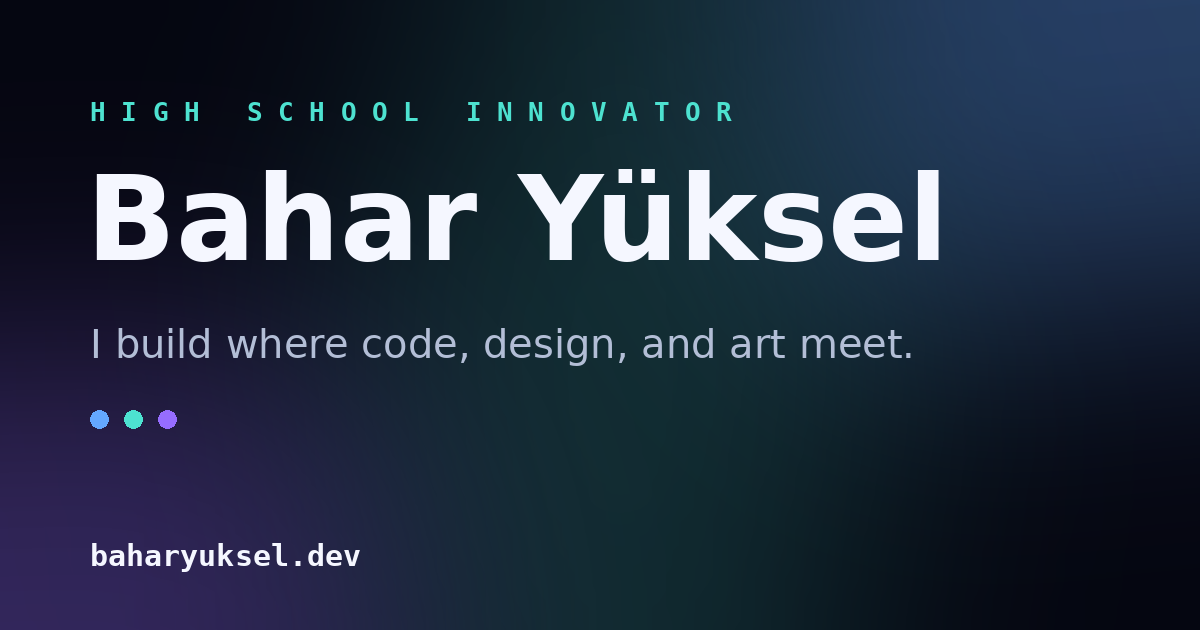
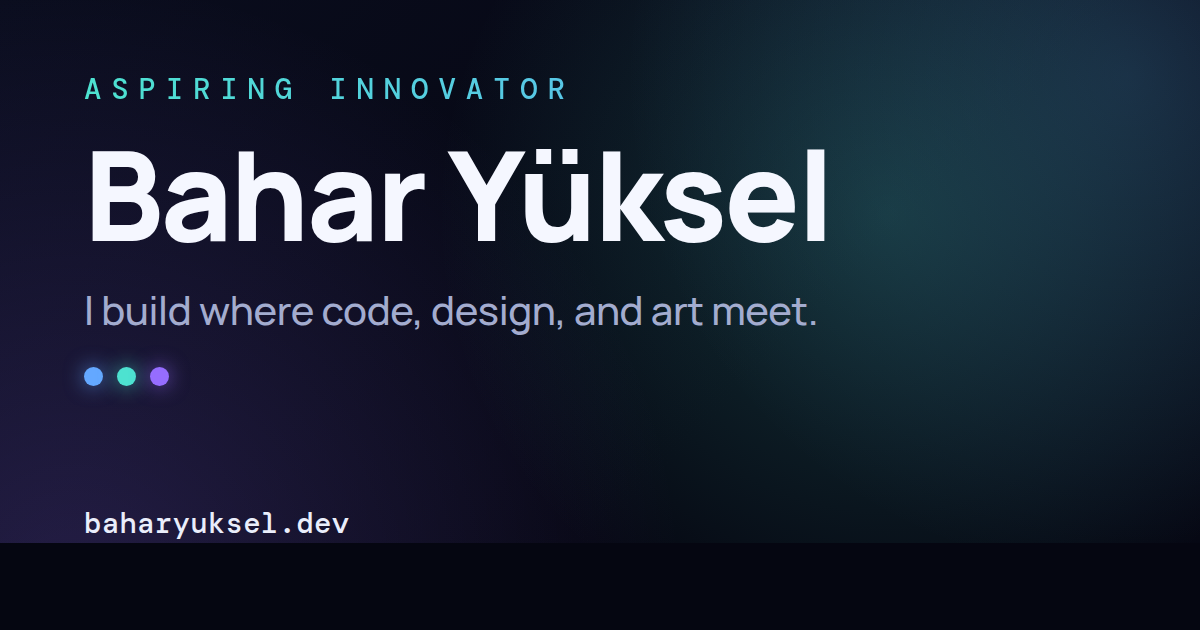
Update bio framing: Aspiring Innovator, drop 'high school', no em dashes
- Change role/title from 'High School Innovator' to 'Aspiring Innovator'
  (hero kicker, page title, JSON-LD, footer)
- Drop 'high school' from meta descriptions and first-person copy across
  content.js, index.html, and about.html
- Replace em-dash separators with middle dots in all page titles and
  social meta across every page
- Regenerate og-card.png with the new 'ASPIRING INNOVATOR' label and bump
  the og:image cache stamp to v=2 so social scrapers refetch

Claude-Session: https://claude.ai/code/session_01RBVGruQ9AxZxknQAtcjyic

diff --git a/work.html b/work.html
@@ -1,1 +1,1 @@
-<!doctype html><html lang="en"><head><meta charset="UTF-8" /><meta name="viewport" content="width=device-width, initial-scale=1.0" /><meta name="theme-color" content="#050611" /><title>Work — Bahar Yüksel</title><link rel="preconnect" href="https://fonts.googleapis.com" /><link rel="preconnect" href="https://fonts.gstatic.com" crossorigin /><link href="https://fonts.googleapis.com/css2?family=Dancing+Script:wght@600;700&family=DM+Mono:wght@400;500&family=Manrope:wght@400;500;600;700;800&display=swap" rel="stylesheet" /><link rel="stylesheet" href="styles.css?v=20260814-26" /><meta name="description" content="Selected projects by Bahar Yüksel, including Casparel and Iter, plus other software, prototypes, and experiments." /><meta name="author" content="Bahar Yüksel" /><link rel="canonical" href="https://baharyuksel.dev/work.html" /><link rel="icon" type="image/png" href="/favicon.png" /><link rel="apple-touch-icon" href="/apple-touch-icon.png" /><meta property="og:type" content="website" /><meta property="og:site_name" content="Bahar Yüksel" /><meta property="og:title" content="Work — Bahar Yüksel" /><meta property="og:description" content="Selected projects by Bahar Yüksel, including Casparel and Iter, plus other software, prototypes, and experiments." /><meta property="og:url" content="https://baharyuksel.dev/work.html" /><meta property="og:image" content="https://baharyuksel.dev/og-card.png?v=1" /><meta property="og:image:width" content="1200" /><meta property="og:image:height" content="630" /><meta property="og:image:alt" content="Bahar Yüksel — I build where code, design, and art meet." /><meta name="twitter:card" content="summary_large_image" /><meta name="twitter:title" content="Work — Bahar Yüksel" /><meta name="twitter:description" content="Selected projects by Bahar Yüksel, including Casparel and Iter, plus other software, prototypes, and experiments." /><meta name="twitter:image" content="https://baharyuksel.dev/og-card.png?v=1" /></head><body data-page="work"><canvas id="motionCanvas" aria-hidden="true"></canvas><main class="shell"><header class="topbar" data-shell></header><section class="page" id="pageRoot"></section></main><dialog id="searchDialog"></dialog><dialog id="featureDialog"></dialog><script src="content.js"></script><script src="app.js?v=20260814-26"></script></body></html>
+<!doctype html><html lang="en"><head><meta charset="UTF-8" /><meta name="viewport" content="width=device-width, initial-scale=1.0" /><meta name="theme-color" content="#050611" /><title>Work · Bahar Yüksel</title><link rel="preconnect" href="https://fonts.googleapis.com" /><link rel="preconnect" href="https://fonts.gstatic.com" crossorigin /><link href="https://fonts.googleapis.com/css2?family=Dancing+Script:wght@600;700&family=DM+Mono:wght@400;500&family=Manrope:wght@400;500;600;700;800&display=swap" rel="stylesheet" /><link rel="stylesheet" href="styles.css?v=20260814-26" /><meta name="description" content="Selected projects by Bahar Yüksel, including Casparel and Iter, plus other software, prototypes, and experiments." /><meta name="author" content="Bahar Yüksel" /><link rel="canonical" href="https://baharyuksel.dev/work.html" /><link rel="icon" type="image/png" href="/favicon.png" /><link rel="apple-touch-icon" href="/apple-touch-icon.png" /><meta property="og:type" content="website" /><meta property="og:site_name" content="Bahar Yüksel" /><meta property="og:title" content="Work · Bahar Yüksel" /><meta property="og:description" content="Selected projects by Bahar Yüksel, including Casparel and Iter, plus other software, prototypes, and experiments." /><meta property="og:url" content="https://baharyuksel.dev/work.html" /><meta property="og:image" content="https://baharyuksel.dev/og-card.png?v=2" /><meta property="og:image:width" content="1200" /><meta property="og:image:height" content="630" /><meta property="og:image:alt" content="Bahar Yüksel · I build where code, design, and art meet." /><meta name="twitter:card" content="summary_large_image" /><meta name="twitter:title" content="Work · Bahar Yüksel" /><meta name="twitter:description" content="Selected projects by Bahar Yüksel, including Casparel and Iter, plus other software, prototypes, and experiments." /><meta name="twitter:image" content="https://baharyuksel.dev/og-card.png?v=2" /></head><body data-page="work"><canvas id="motionCanvas" aria-hidden="true"></canvas><main class="shell"><header class="topbar" data-shell></header><section class="page" id="pageRoot"></section></main><dialog id="searchDialog"></dialog><dialog id="featureDialog"></dialog><script src="content.js"></script><script src="app.js?v=20260814-26"></script></body></html>

diff --git a/research.html b/research.html
@@ -1,1 +1,1 @@
-<!doctype html><html lang="en"><head><meta charset="UTF-8" /><meta name="viewport" content="width=device-width, initial-scale=1.0" /><meta name="theme-color" content="#050611" /><title>Research — Bahar Yüksel</title><link rel="preconnect" href="https://fonts.googleapis.com" /><link rel="preconnect" href="https://fonts.gstatic.com" crossorigin /><link href="https://fonts.googleapis.com/css2?family=Dancing+Script:wght@600;700&family=DM+Mono:wght@400;500&family=Manrope:wght@400;500;600;700;800&display=swap" rel="stylesheet" /><link rel="stylesheet" href="styles.css?v=20260814-26" /><meta name="description" content="Open questions Bahar Yüksel is exploring across AI, education, product, and design." /><meta name="author" content="Bahar Yüksel" /><link rel="canonical" href="https://baharyuksel.dev/research.html" /><link rel="icon" type="image/png" href="/favicon.png" /><link rel="apple-touch-icon" href="/apple-touch-icon.png" /><meta property="og:type" content="website" /><meta property="og:site_name" content="Bahar Yüksel" /><meta property="og:title" content="Research — Bahar Yüksel" /><meta property="og:description" content="Open questions Bahar Yüksel is exploring across AI, education, product, and design." /><meta property="og:url" content="https://baharyuksel.dev/research.html" /><meta property="og:image" content="https://baharyuksel.dev/og-card.png?v=1" /><meta property="og:image:width" content="1200" /><meta property="og:image:height" content="630" /><meta property="og:image:alt" content="Bahar Yüksel — I build where code, design, and art meet." /><meta name="twitter:card" content="summary_large_image" /><meta name="twitter:title" content="Research — Bahar Yüksel" /><meta name="twitter:description" content="Open questions Bahar Yüksel is exploring across AI, education, product, and design." /><meta name="twitter:image" content="https://baharyuksel.dev/og-card.png?v=1" /></head><body data-page="research"><canvas id="motionCanvas" aria-hidden="true"></canvas><main class="shell"><header class="topbar" data-shell></header><section class="page" id="pageRoot"></section></main><dialog id="searchDialog"></dialog><dialog id="featureDialog"></dialog><script src="content.js"></script><script src="app.js?v=20260814-26"></script></body></html>
+<!doctype html><html lang="en"><head><meta charset="UTF-8" /><meta name="viewport" content="width=device-width, initial-scale=1.0" /><meta name="theme-color" content="#050611" /><title>Research · Bahar Yüksel</title><link rel="preconnect" href="https://fonts.googleapis.com" /><link rel="preconnect" href="https://fonts.gstatic.com" crossorigin /><link href="https://fonts.googleapis.com/css2?family=Dancing+Script:wght@600;700&family=DM+Mono:wght@400;500&family=Manrope:wght@400;500;600;700;800&display=swap" rel="stylesheet" /><link rel="stylesheet" href="styles.css?v=20260814-26" /><meta name="description" content="Open questions Bahar Yüksel is exploring across AI, education, product, and design." /><meta name="author" content="Bahar Yüksel" /><link rel="canonical" href="https://baharyuksel.dev/research.html" /><link rel="icon" type="image/png" href="/favicon.png" /><link rel="apple-touch-icon" href="/apple-touch-icon.png" /><meta property="og:type" content="website" /><meta property="og:site_name" content="Bahar Yüksel" /><meta property="og:title" content="Research · Bahar Yüksel" /><meta property="og:description" content="Open questions Bahar Yüksel is exploring across AI, education, product, and design." /><meta property="og:url" content="https://baharyuksel.dev/research.html" /><meta property="og:image" content="https://baharyuksel.dev/og-card.png?v=2" /><meta property="og:image:width" content="1200" /><meta property="og:image:height" content="630" /><meta property="og:image:alt" content="Bahar Yüksel · I build where code, design, and art meet." /><meta name="twitter:card" content="summary_large_image" /><meta name="twitter:title" content="Research · Bahar Yüksel" /><meta name="twitter:description" content="Open questions Bahar Yüksel is exploring across AI, education, product, and design." /><meta name="twitter:image" content="https://baharyuksel.dev/og-card.png?v=2" /></head><body data-page="research"><canvas id="motionCanvas" aria-hidden="true"></canvas><main class="shell"><header class="topbar" data-shell></header><section class="page" id="pageRoot"></section></main><dialog id="searchDialog"></dialog><dialog id="featureDialog"></dialog><script src="content.js"></script><script src="app.js?v=20260814-26"></script></body></html>

diff --git a/writing.html b/writing.html
@@ -1,1 +1,1 @@
-<!doctype html><html lang="en"><head><meta charset="UTF-8" /><meta name="viewport" content="width=device-width, initial-scale=1.0" /><meta name="theme-color" content="#050611" /><title>Blog — Bahar Yüksel</title><link rel="preconnect" href="https://fonts.googleapis.com" /><link rel="preconnect" href="https://fonts.gstatic.com" crossorigin /><link href="https://fonts.googleapis.com/css2?family=Dancing+Script:wght@600;700&family=DM+Mono:wght@400;500&family=Manrope:wght@400;500;600;700;800&display=swap" rel="stylesheet" /><link rel="stylesheet" href="styles.css?v=20260814-26" /><meta name="description" content="An innovator's journal: Bahar Yüksel on building, learning, AI, and design." /><meta name="author" content="Bahar Yüksel" /><link rel="canonical" href="https://baharyuksel.dev/writing.html" /><link rel="icon" type="image/png" href="/favicon.png" /><link rel="apple-touch-icon" href="/apple-touch-icon.png" /><meta property="og:type" content="website" /><meta property="og:site_name" content="Bahar Yüksel" /><meta property="og:title" content="An innovator's journal — Bahar Yüksel" /><meta property="og:description" content="An innovator's journal: Bahar Yüksel on building, learning, AI, and design." /><meta property="og:url" content="https://baharyuksel.dev/writing.html" /><meta property="og:image" content="https://baharyuksel.dev/og-card.png?v=1" /><meta property="og:image:width" content="1200" /><meta property="og:image:height" content="630" /><meta property="og:image:alt" content="Bahar Yüksel — I build where code, design, and art meet." /><meta name="twitter:card" content="summary_large_image" /><meta name="twitter:title" content="An innovator's journal — Bahar Yüksel" /><meta name="twitter:description" content="An innovator's journal: Bahar Yüksel on building, learning, AI, and design." /><meta name="twitter:image" content="https://baharyuksel.dev/og-card.png?v=1" /></head><body data-page="writing"><canvas id="motionCanvas" aria-hidden="true"></canvas><main class="shell"><header class="topbar" data-shell></header><section class="page" id="pageRoot"></section></main><dialog id="searchDialog"></dialog><dialog id="featureDialog"></dialog><script src="content.js"></script><script src="app.js?v=20260814-26"></script></body></html>
+<!doctype html><html lang="en"><head><meta charset="UTF-8" /><meta name="viewport" content="width=device-width, initial-scale=1.0" /><meta name="theme-color" content="#050611" /><title>Blog · Bahar Yüksel</title><link rel="preconnect" href="https://fonts.googleapis.com" /><link rel="preconnect" href="https://fonts.gstatic.com" crossorigin /><link href="https://fonts.googleapis.com/css2?family=Dancing+Script:wght@600;700&family=DM+Mono:wght@400;500&family=Manrope:wght@400;500;600;700;800&display=swap" rel="stylesheet" /><link rel="stylesheet" href="styles.css?v=20260814-26" /><meta name="description" content="An innovator's journal: Bahar Yüksel on building, learning, AI, and design." /><meta name="author" content="Bahar Yüksel" /><link rel="canonical" href="https://baharyuksel.dev/writing.html" /><link rel="icon" type="image/png" href="/favicon.png" /><link rel="apple-touch-icon" href="/apple-touch-icon.png" /><meta property="og:type" content="website" /><meta property="og:site_name" content="Bahar Yüksel" /><meta property="og:title" content="An innovator's journal · Bahar Yüksel" /><meta property="og:description" content="An innovator's journal: Bahar Yüksel on building, learning, AI, and design." /><meta property="og:url" content="https://baharyuksel.dev/writing.html" /><meta property="og:image" content="https://baharyuksel.dev/og-card.png?v=2" /><meta property="og:image:width" content="1200" /><meta property="og:image:height" content="630" /><meta property="og:image:alt" content="Bahar Yüksel · I build where code, design, and art meet." /><meta name="twitter:card" content="summary_large_image" /><meta name="twitter:title" content="An innovator's journal · Bahar Yüksel" /><meta name="twitter:description" content="An innovator's journal: Bahar Yüksel on building, learning, AI, and design." /><meta name="twitter:image" content="https://baharyuksel.dev/og-card.png?v=2" /></head><body data-page="writing"><canvas id="motionCanvas" aria-hidden="true"></canvas><main class="shell"><header class="topbar" data-shell></header><section class="page" id="pageRoot"></section></main><dialog id="searchDialog"></dialog><dialog id="featureDialog"></dialog><script src="content.js"></script><script src="app.js?v=20260814-26"></script></body></html>

diff --git a/about.html b/about.html
@@ -1,1 +1,1 @@
-<!doctype html><html lang="en"><head><meta charset="UTF-8" /><meta name="viewport" content="width=device-width, initial-scale=1.0" /><meta name="theme-color" content="#050611" /><title>About — Bahar Yüksel</title><link rel="preconnect" href="https://fonts.googleapis.com" /><link rel="preconnect" href="https://fonts.gstatic.com" crossorigin /><link href="https://fonts.googleapis.com/css2?family=Dancing+Script:wght@600;700&family=DM+Mono:wght@400;500&family=Manrope:wght@400;500;600;700;800&display=swap" rel="stylesheet" /><link rel="stylesheet" href="styles.css?v=20260814-26" /><meta name="description" content="About Bahar Yüksel, a high school student in Istanbul building across code, design, and art." /><meta name="author" content="Bahar Yüksel" /><link rel="canonical" href="https://baharyuksel.dev/about.html" /><link rel="icon" type="image/png" href="/favicon.png" /><link rel="apple-touch-icon" href="/apple-touch-icon.png" /><meta property="og:type" content="website" /><meta property="og:site_name" content="Bahar Yüksel" /><meta property="og:title" content="About Bahar Yüksel" /><meta property="og:description" content="About Bahar Yüksel, a high school student in Istanbul building across code, design, and art." /><meta property="og:url" content="https://baharyuksel.dev/about.html" /><meta property="og:image" content="https://baharyuksel.dev/og-card.png?v=1" /><meta property="og:image:width" content="1200" /><meta property="og:image:height" content="630" /><meta property="og:image:alt" content="Bahar Yüksel — I build where code, design, and art meet." /><meta name="twitter:card" content="summary_large_image" /><meta name="twitter:title" content="About Bahar Yüksel" /><meta name="twitter:description" content="About Bahar Yüksel, a high school student in Istanbul building across code, design, and art." /><meta name="twitter:image" content="https://baharyuksel.dev/og-card.png?v=1" /></head><body data-page="about"><canvas id="motionCanvas" aria-hidden="true"></canvas><main class="shell"><header class="topbar" data-shell></header><section class="page" id="pageRoot"></section></main><dialog id="searchDialog"></dialog><dialog id="featureDialog"></dialog><script src="content.js"></script><script src="app.js?v=20260814-26"></script></body></html>
+<!doctype html><html lang="en"><head><meta charset="UTF-8" /><meta name="viewport" content="width=device-width, initial-scale=1.0" /><meta name="theme-color" content="#050611" /><title>About · Bahar Yüksel</title><link rel="preconnect" href="https://fonts.googleapis.com" /><link rel="preconnect" href="https://fonts.gstatic.com" crossorigin /><link href="https://fonts.googleapis.com/css2?family=Dancing+Script:wght@600;700&family=DM+Mono:wght@400;500&family=Manrope:wght@400;500;600;700;800&display=swap" rel="stylesheet" /><link rel="stylesheet" href="styles.css?v=20260814-26" /><meta name="description" content="About Bahar Yüksel, working across code, design, and art in Istanbul." /><meta name="author" content="Bahar Yüksel" /><link rel="canonical" href="https://baharyuksel.dev/about.html" /><link rel="icon" type="image/png" href="/favicon.png" /><link rel="apple-touch-icon" href="/apple-touch-icon.png" /><meta property="og:type" content="website" /><meta property="og:site_name" content="Bahar Yüksel" /><meta property="og:title" content="About Bahar Yüksel" /><meta property="og:description" content="About Bahar Yüksel, working across code, design, and art in Istanbul." /><meta property="og:url" content="https://baharyuksel.dev/about.html" /><meta property="og:image" content="https://baharyuksel.dev/og-card.png?v=2" /><meta property="og:image:width" content="1200" /><meta property="og:image:height" content="630" /><meta property="og:image:alt" content="Bahar Yüksel · I build where code, design, and art meet." /><meta name="twitter:card" content="summary_large_image" /><meta name="twitter:title" content="About Bahar Yüksel" /><meta name="twitter:description" content="About Bahar Yüksel, working across code, design, and art in Istanbul." /><meta name="twitter:image" content="https://baharyuksel.dev/og-card.png?v=2" /></head><body data-page="about"><canvas id="motionCanvas" aria-hidden="true"></canvas><main class="shell"><header class="topbar" data-shell></header><section class="page" id="pageRoot"></section></main><dialog id="searchDialog"></dialog><dialog id="featureDialog"></dialog><script src="content.js"></script><script src="app.js?v=20260814-26"></script></body></html>

diff --git a/art.html b/art.html
@@ -1,1 +1,1 @@
-<!doctype html><html lang="en"><head><meta charset="UTF-8" /><meta name="viewport" content="width=device-width, initial-scale=1.0" /><meta name="theme-color" content="#050611" /><title>Art — Bahar Yüksel</title><link rel="preconnect" href="https://fonts.googleapis.com" /><link rel="preconnect" href="https://fonts.gstatic.com" crossorigin /><link href="https://fonts.googleapis.com/css2?family=Dancing+Script:wght@600;700&family=DM+Mono:wght@400;500&family=Manrope:wght@400;500;600;700;800&display=swap" rel="stylesheet" /><link rel="stylesheet" href="styles.css?v=20260814-26" /><meta name="description" content="Illustrations, comics, logos, and creative-coding studies by Bahar Yüksel." /><meta name="author" content="Bahar Yüksel" /><link rel="canonical" href="https://baharyuksel.dev/art.html" /><link rel="icon" type="image/png" href="/favicon.png" /><link rel="apple-touch-icon" href="/apple-touch-icon.png" /><meta property="og:type" content="website" /><meta property="og:site_name" content="Bahar Yüksel" /><meta property="og:title" content="Art — Bahar Yüksel" /><meta property="og:description" content="Illustrations, comics, logos, and creative-coding studies by Bahar Yüksel." /><meta property="og:url" content="https://baharyuksel.dev/art.html" /><meta property="og:image" content="https://baharyuksel.dev/og-card.png?v=1" /><meta property="og:image:width" content="1200" /><meta property="og:image:height" content="630" /><meta property="og:image:alt" content="Bahar Yüksel — I build where code, design, and art meet." /><meta name="twitter:card" content="summary_large_image" /><meta name="twitter:title" content="Art — Bahar Yüksel" /><meta name="twitter:description" content="Illustrations, comics, logos, and creative-coding studies by Bahar Yüksel." /><meta name="twitter:image" content="https://baharyuksel.dev/og-card.png?v=1" /></head><body data-page="art"><canvas id="motionCanvas" aria-hidden="true"></canvas><main class="shell"><header class="topbar" data-shell></header><section class="page" id="pageRoot"></section></main><dialog id="searchDialog"></dialog><dialog id="featureDialog"></dialog><script src="content.js"></script><script src="app.js?v=20260814-26"></script></body></html>
+<!doctype html><html lang="en"><head><meta charset="UTF-8" /><meta name="viewport" content="width=device-width, initial-scale=1.0" /><meta name="theme-color" content="#050611" /><title>Art · Bahar Yüksel</title><link rel="preconnect" href="https://fonts.googleapis.com" /><link rel="preconnect" href="https://fonts.gstatic.com" crossorigin /><link href="https://fonts.googleapis.com/css2?family=Dancing+Script:wght@600;700&family=DM+Mono:wght@400;500&family=Manrope:wght@400;500;600;700;800&display=swap" rel="stylesheet" /><link rel="stylesheet" href="styles.css?v=20260814-26" /><meta name="description" content="Illustrations, comics, logos, and creative-coding studies by Bahar Yüksel." /><meta name="author" content="Bahar Yüksel" /><link rel="canonical" href="https://baharyuksel.dev/art.html" /><link rel="icon" type="image/png" href="/favicon.png" /><link rel="apple-touch-icon" href="/apple-touch-icon.png" /><meta property="og:type" content="website" /><meta property="og:site_name" content="Bahar Yüksel" /><meta property="og:title" content="Art · Bahar Yüksel" /><meta property="og:description" content="Illustrations, comics, logos, and creative-coding studies by Bahar Yüksel." /><meta property="og:url" content="https://baharyuksel.dev/art.html" /><meta property="og:image" content="https://baharyuksel.dev/og-card.png?v=2" /><meta property="og:image:width" content="1200" /><meta property="og:image:height" content="630" /><meta property="og:image:alt" content="Bahar Yüksel · I build where code, design, and art meet." /><meta name="twitter:card" content="summary_large_image" /><meta name="twitter:title" content="Art · Bahar Yüksel" /><meta name="twitter:description" content="Illustrations, comics, logos, and creative-coding studies by Bahar Yüksel." /><meta name="twitter:image" content="https://baharyuksel.dev/og-card.png?v=2" /></head><body data-page="art"><canvas id="motionCanvas" aria-hidden="true"></canvas><main class="shell"><header class="topbar" data-shell></header><section class="page" id="pageRoot"></section></main><dialog id="searchDialog"></dialog><dialog id="featureDialog"></dialog><script src="content.js"></script><script src="app.js?v=20260814-26"></script></body></html>

diff --git a/index.html b/index.html
@@ -4,7 +4,7 @@
     <meta charset="UTF-8" />
     <meta name="viewport" content="width=device-width, initial-scale=1.0" />
     <meta name="theme-color" content="#eef1f8" />
-    <title>Bahar Yüksel — High School Innovator</title>
+    <title>Bahar Yüksel · Aspiring Innovator</title>
     <link rel="preconnect" href="https://fonts.googleapis.com" />
     <link rel="preconnect" href="https://fonts.gstatic.com" crossorigin />
     <link href="https://fonts.googleapis.com/css2?family=Dancing+Script:wght@600;700&family=DM+Mono:wght@400;500&family=Manrope:wght@400;500;600;700;800&display=swap" rel="stylesheet" />
@@ -17,15 +17,15 @@
         "name": "Bahar Yüksel",
         "alternateName": "Bahar Yuksel",
         "url": "https://baharyuksel.dev",
-        "jobTitle": "High School Innovator",
-        "description": "High school builder in Istanbul working across code, design, and art, mostly tools that help people learn.",
+        "jobTitle": "Aspiring Innovator",
+        "description": "Builder in Istanbul working across code, design, and art, mostly tools that help people learn.",
         "sameAs": [
           "https://github.com/springdev28",
           "https://www.linkedin.com/in/baharyuksel0403"
         ]
       }
     </script>
-  <meta name="description" content="High school builder in Istanbul working across code, design, and art. Software, interfaces, and visual work, mostly tools that help people learn." /><meta name="author" content="Bahar Yüksel" /><link rel="canonical" href="https://baharyuksel.dev/" /><link rel="icon" type="image/png" href="/favicon.png" /><link rel="apple-touch-icon" href="/apple-touch-icon.png" /><meta property="og:type" content="website" /><meta property="og:site_name" content="Bahar Yüksel" /><meta property="og:title" content="Bahar Yüksel — code, design &amp; art" /><meta property="og:description" content="High school builder in Istanbul working across code, design, and art. Software, interfaces, and visual work, mostly tools that help people learn." /><meta property="og:url" content="https://baharyuksel.dev/" /><meta property="og:image" content="https://baharyuksel.dev/og-card.png?v=1" /><meta property="og:image:width" content="1200" /><meta property="og:image:height" content="630" /><meta property="og:image:alt" content="Bahar Yüksel — I build where code, design, and art meet." /><meta name="twitter:card" content="summary_large_image" /><meta name="twitter:title" content="Bahar Yüksel — code, design &amp; art" /><meta name="twitter:description" content="High school builder in Istanbul working across code, design, and art. Software, interfaces, and visual work, mostly tools that help people learn." /><meta name="twitter:image" content="https://baharyuksel.dev/og-card.png?v=1" /></head>
+  <meta name="description" content="Builder in Istanbul working across code, design, and art. Software, interfaces, and visual work, mostly tools that help people learn." /><meta name="author" content="Bahar Yüksel" /><link rel="canonical" href="https://baharyuksel.dev/" /><link rel="icon" type="image/png" href="/favicon.png" /><link rel="apple-touch-icon" href="/apple-touch-icon.png" /><meta property="og:type" content="website" /><meta property="og:site_name" content="Bahar Yüksel" /><meta property="og:title" content="Bahar Yüksel · code, design &amp; art" /><meta property="og:description" content="Builder in Istanbul working across code, design, and art. Software, interfaces, and visual work, mostly tools that help people learn." /><meta property="og:url" content="https://baharyuksel.dev/" /><meta property="og:image" content="https://baharyuksel.dev/og-card.png?v=2" /><meta property="og:image:width" content="1200" /><meta property="og:image:height" content="630" /><meta property="og:image:alt" content="Bahar Yüksel · I build where code, design, and art meet." /><meta name="twitter:card" content="summary_large_image" /><meta name="twitter:title" content="Bahar Yüksel · code, design &amp; art" /><meta name="twitter:description" content="Builder in Istanbul working across code, design, and art. Software, interfaces, and visual work, mostly tools that help people learn." /><meta name="twitter:image" content="https://baharyuksel.dev/og-card.png?v=2" /></head>
   <body data-page="home">
     <canvas id="motionCanvas" aria-hidden="true"></canvas>
     <main class="shell">

diff --git a/contact.html b/contact.html
@@ -1,1 +1,1 @@
-<!doctype html><html lang="en"><head><meta charset="UTF-8" /><meta name="viewport" content="width=device-width, initial-scale=1.0" /><meta name="theme-color" content="#050611" /><title>Contact — Bahar Yüksel</title><link rel="preconnect" href="https://fonts.googleapis.com" /><link rel="preconnect" href="https://fonts.gstatic.com" crossorigin /><link href="https://fonts.googleapis.com/css2?family=Dancing+Script:wght@600;700&family=DM+Mono:wght@400;500&family=Manrope:wght@400;500;600;700;800&display=swap" rel="stylesheet" /><link rel="stylesheet" href="styles.css?v=20260814-26" /><meta name="description" content="Get in touch with Bahar Yüksel." /><meta name="author" content="Bahar Yüksel" /><link rel="canonical" href="https://baharyuksel.dev/contact.html" /><link rel="icon" type="image/png" href="/favicon.png" /><link rel="apple-touch-icon" href="/apple-touch-icon.png" /><meta property="og:type" content="website" /><meta property="og:site_name" content="Bahar Yüksel" /><meta property="og:title" content="Contact — Bahar Yüksel" /><meta property="og:description" content="Get in touch with Bahar Yüksel." /><meta property="og:url" content="https://baharyuksel.dev/contact.html" /><meta property="og:image" content="https://baharyuksel.dev/og-card.png?v=1" /><meta property="og:image:width" content="1200" /><meta property="og:image:height" content="630" /><meta property="og:image:alt" content="Bahar Yüksel — I build where code, design, and art meet." /><meta name="twitter:card" content="summary_large_image" /><meta name="twitter:title" content="Contact — Bahar Yüksel" /><meta name="twitter:description" content="Get in touch with Bahar Yüksel." /><meta name="twitter:image" content="https://baharyuksel.dev/og-card.png?v=1" /></head><body data-page="contact"><canvas id="motionCanvas" aria-hidden="true"></canvas><main class="shell"><header class="topbar" data-shell></header><section class="page" id="pageRoot"></section></main><dialog id="searchDialog"></dialog><dialog id="featureDialog"></dialog><script src="content.js"></script><script src="app.js?v=20260814-26"></script></body></html>
+<!doctype html><html lang="en"><head><meta charset="UTF-8" /><meta name="viewport" content="width=device-width, initial-scale=1.0" /><meta name="theme-color" content="#050611" /><title>Contact · Bahar Yüksel</title><link rel="preconnect" href="https://fonts.googleapis.com" /><link rel="preconnect" href="https://fonts.gstatic.com" crossorigin /><link href="https://fonts.googleapis.com/css2?family=Dancing+Script:wght@600;700&family=DM+Mono:wght@400;500&family=Manrope:wght@400;500;600;700;800&display=swap" rel="stylesheet" /><link rel="stylesheet" href="styles.css?v=20260814-26" /><meta name="description" content="Get in touch with Bahar Yüksel." /><meta name="author" content="Bahar Yüksel" /><link rel="canonical" href="https://baharyuksel.dev/contact.html" /><link rel="icon" type="image/png" href="/favicon.png" /><link rel="apple-touch-icon" href="/apple-touch-icon.png" /><meta property="og:type" content="website" /><meta property="og:site_name" content="Bahar Yüksel" /><meta property="og:title" content="Contact · Bahar Yüksel" /><meta property="og:description" content="Get in touch with Bahar Yüksel." /><meta property="og:url" content="https://baharyuksel.dev/contact.html" /><meta property="og:image" content="https://baharyuksel.dev/og-card.png?v=2" /><meta property="og:image:width" content="1200" /><meta property="og:image:height" content="630" /><meta property="og:image:alt" content="Bahar Yüksel · I build where code, design, and art meet." /><meta name="twitter:card" content="summary_large_image" /><meta name="twitter:title" content="Contact · Bahar Yüksel" /><meta name="twitter:description" content="Get in touch with Bahar Yüksel." /><meta name="twitter:image" content="https://baharyuksel.dev/og-card.png?v=2" /></head><body data-page="contact"><canvas id="motionCanvas" aria-hidden="true"></canvas><main class="shell"><header class="topbar" data-shell></header><section class="page" id="pageRoot"></section></main><dialog id="searchDialog"></dialog><dialog id="featureDialog"></dialog><script src="content.js"></script><script src="app.js?v=20260814-26"></script></body></html>

diff --git a/content.js b/content.js
@@ -2,16 +2,16 @@ window.portfolio = {
   person: {
     name: "Bahar Yüksel",
     initials: "BY",
-    role: "High School Innovator",
+    role: "Aspiring Innovator",
     location: "Istanbul, Türkiye",
     email: "baharyuksel0403@gmail.com",
     headline: "I build where code, design, and art meet.",
     intro:
-      "I'm a high school student in Istanbul, Robert College. I make software, interfaces, and visual work, mostly tools that help people learn.",
+      "I'm a student in Istanbul, Robert College. I make software, interfaces, and visual work, mostly tools that help people learn.",
     now: "Building Casparel and Iter, exploring AI for learning, and turning experiments into things I can show.",
     available: "Open to opportunities & collaboration",
     story: [
-      "I'm Bahar Yüksel, a high school student in Robert College. I've always wanted to understand how things work, and what they could be. That curiosity turned into the need for developing my own version: building software, designing interfaces, and making visual work, often all at the same time.",
+      "I'm Bahar Yüksel, a student in Robert College. I've always wanted to understand how things work, and what they could be. That curiosity turned into the need for developing my own version: building software, designing interfaces, and making visual work, often all at the same time.",
       "My favorite work lives where code, design, and art overlap. I care about tools that are engineered to actually work, designed to be clear, and made with enough personality to feel human. Most of what I build points at one question: how do I leave my mark?",
       "I'm still early, still learning, still shipping, still figuring out where this goes. But I'd rather be brave and build real things now than wait. If you're looking for someone innovative, curious, self-directed, and genuinely excited to make things, you now know where to look for.",
     ],
@@ -344,7 +344,7 @@ window.portfolio = {
         "  This is most of what I am trying to build into Iter. I did not want an agent that hands you an answer and hides its reasoning. I wanted planning you can inspect, where the evidence is visible and you are allowed to argue with it. If a system tells you what to do next, you should be able to see why, and disagree out loud. A black box that is usually right still teaches you the worst possible lesson, which is to stop thinking.",
         "  Casparel comes from a different angle but the same belief. School life is scattered across a dozen apps and group chats, and that scattering quietly taxes the attention that should go to actual learning. So the goal there is not to be clever, it is to hold the pieces together, classes, resources, schedules, progress, support, in one place that makes the next step obvious. Coordination is unglamorous, but for a real student it is often the thing that is actually broken.",
         "  There are things I try hard not to build. I do not want tools that do your thinking and let you believe you understand. I do not want to hide effort in a way that feels great today and leaves you hollow at the exam, or worse, in the real moment you needed to know the thing and no tool was there. If a feature makes a student more dependent and less capable, it is a bad feature, no matter how good the launch video looks.",
-        "  I want to be honest about my limits. I am a high school student building for students, which means I get some things right precisely because I am close to the problem, and I will get some things wrong for exactly the same reason. But I would rather build inside that gap than wait for permission to care. The friction is real, I am living in it, and that is a very good place to start.",
+        "  I want to be honest about my limits. I am a student building for students, which means I get some things right precisely because I am close to the problem, and I will get some things wrong for exactly the same reason. But I would rather build inside that gap than wait for permission to care. The friction is real, I am living in it, and that is a very good place to start.",
       ],
     },
     {
